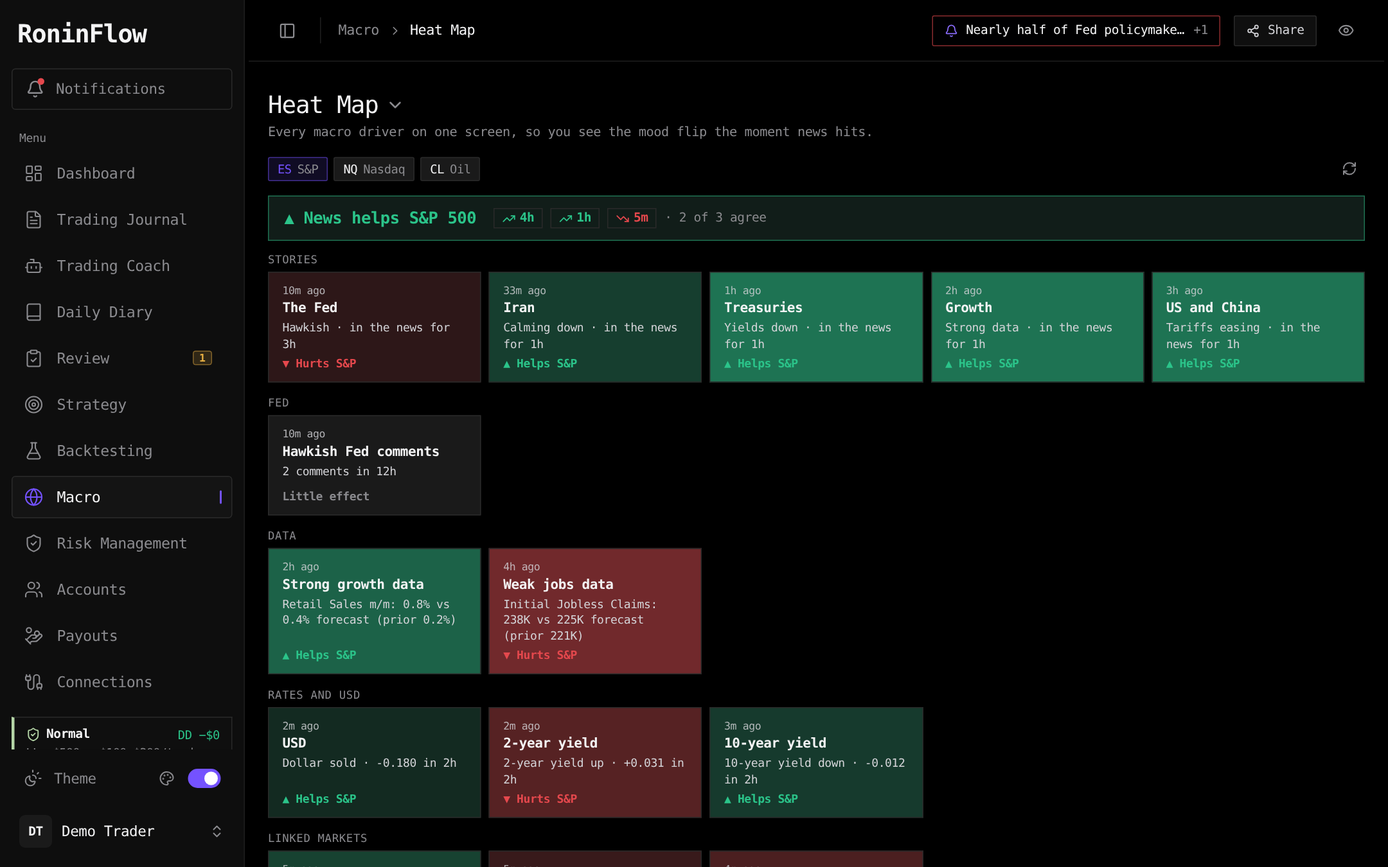
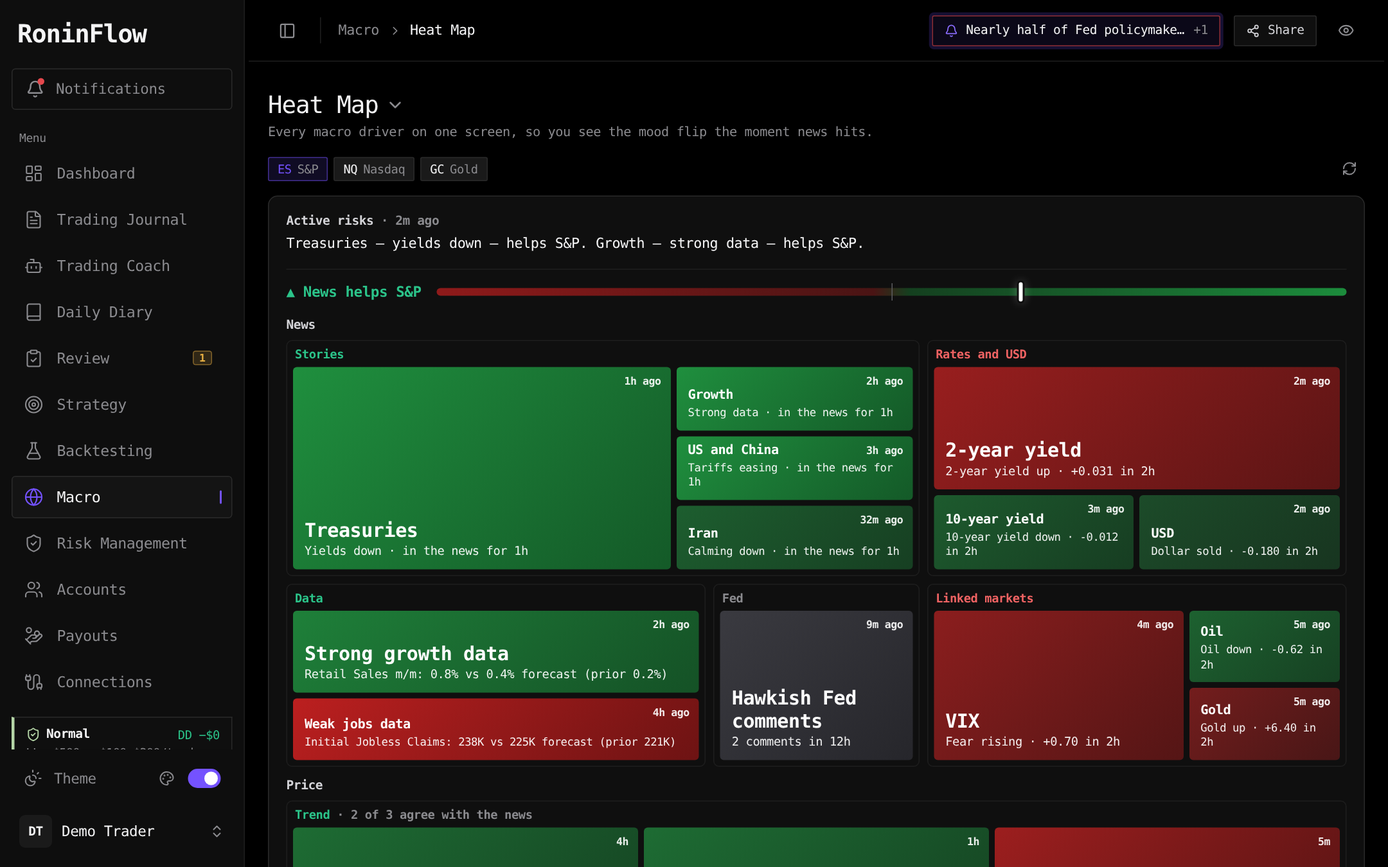
Heat map laid out as panels with an active-risks line and a verdict bar; dismissable news alerts; today's events marked high-impact scheduled releases
Claude-Session: https://claude.ai/code/session_01UwZjWnkvuFAiHZyDgpbxUS

diff --git a/src/views/NewsHeatmap.jsx b/src/views/NewsHeatmap.jsx
@@ -10,11 +10,48 @@ import { useMacro } from '../lib/macro';
 import { NEWS_MARKETS, DRIVERS } from '../lib/newsRules';
 import { Chain, ago, timeOf, sideOf } from '../components/NewsBits';
 
-const GROUPS = ['Stories', 'Fed', 'Data', 'Rates and USD', 'Linked markets'];
-const bg = (v) => {
-  const a = Math.min(0.55, 0.1 + Math.abs(v) * 0.45);
-  return v > 0.05 ? `color-mix(in srgb, var(--pos) ${Math.round(a * 100)}%, var(--card))` : v < -0.05 ? `color-mix(in srgb, var(--neg) ${Math.round(a * 100)}%, var(--card))` : 'var(--card-3)';
-};
+const ROW1 = ['Stories', 'Rates and USD'], ROW2 = ['Data', 'Fed', 'Linked markets'];
+const LAYOUT = { Stories: 'side', 'Rates and USD': 'top', Data: 'top', Fed: 'top', 'Linked markets': 'side' };
+const W = (t) => (t.group === 'Stories' ? 1.2 : t.group === 'Fed' ? 1.5 : t.group === 'Data' ? 1 : 0.6) * Math.max(0.3, Math.exp(-(Date.now() - t.t) / 864e5));
+const strength = (t) => Math.abs(t.v) * W(t);
+const tone = (v) => (v > 0.05 ? 'up' : v < -0.05 ? 'down' : 'flat');
+/** Spans on a 5-column board for the panels that have tiles (a row's panels share its width). */
+function spans(row, has, sizes) {
+  const list = row.filter((g) => has[g]);
+  if (list.length === 1) return { [list[0]]: 5 };
+  if (list.length === 2) { const [a, b] = list; const big = (has[a] >= has[b] ? a : b); return { [a]: big === a ? 3 : 2, [b]: big === b ? 3 : 2 }; }
+  return Object.fromEntries(list.map((g) => [g, sizes[g]]));
+}
+
+function Tile({ t, big, market, onOpen }) {
+  const m = NEWS_MARKETS[market];
+  return (
+    <button className={`hm-tile ${tone(t.v)} ${big ? 'big' : ''}`} style={{ '--a': `${Math.round(35 + Math.min(1, Math.abs(t.v)) * 65)}%` }} onClick={() => onOpen(t)} title={`${t.v > 0.05 ? 'Helps' : t.v < -0.05 ? 'Hurts' : 'Little effect on'} ${m?.short}`}>
+      <span className="hm-age">{ago(t.t)}</span>
+      <span className="hm-txt">
+        <b>{t.title}</b>
+        {t.sub && <small>{t.sub}</small>}
+      </span>
+    </button>
+  );
+}
+
+function Panel({ group, tiles, span, market, onOpen, layout }) {
+  const list = [...tiles].sort((a, b) => strength(b) - strength(a));
+  const net = list.reduce((a, t) => a + t.v * W(t), 0);
+  const [first, ...rest] = list;
+  const more = rest.slice(0, layout === 'side' ? 3 : 3);
+  const lay = span === 1 ? 'top' : layout;
+  return (
+    <div className={`hm-panel ${lay}`} style={{ gridColumn: `span ${span}` }}>
+      <div className={`hm-ph ${tone(net)}`}>{group}</div>
+      <div className="hm-pbody">
+        <Tile t={first} big market={market} onOpen={onOpen} />
+        {more.length > 0 && <div className="hm-rest">{more.map((t, i) => <Tile key={i} t={t} market={market} onOpen={onOpen} />)}</div>}
+      </div>
+    </div>
+  );
+}
 
 export default function NewsHeatmap() {
   const { state, setSetting } = useStore();
@@ -44,36 +81,41 @@ export default function NewsHeatmap() {
       {error && <div className="ec-warn">{error}</div>}
       {loading && !data ? <div className="ec-empty">Loading…</div> : !data ? null : (
         <>
-          <div className={`hm-banner ${verdict}`}>
-            <span className="hm-v">{verdict === 'helps' ? '▲' : verdict === 'hurts' ? '▼' : '•'} News {verdict === 'mixed' ? 'is mixed for' : verdict} {m?.label}</span>
-            {data.trend && (
-              <span className="hm-trend">
-                {data.trend.slice().reverse().map((t) => <span key={t.tf} className={`hm-tf ${t.dir > 0 ? 'pos' : t.dir < 0 ? 'neg' : ''}`}>{t.dir > 0 ? <TrendingUp size={14} /> : t.dir < 0 ? <TrendingDown size={14} /> : <Minus size={14} />} {t.tf}</span>)}
-                {verdict !== 'mixed' && <span className="muted">· {data.agree} of 3 agree{data.agree === 0 ? ' — price hasn’t joined the news' : data.agree === 3 ? ' — price is with the news' : ''}</span>}
-              </span>
-            )}
-          </div>
-          {!tiles.length && <div className="ec-empty">Nothing in the news for {m?.short} yet today.</div>}
-          <div className="hm-groups">
-            {GROUPS.map((g) => {
-              const list = tiles.filter((t) => t.group === g);
-              if (!list.length) return null;
+          <div className="hm-card">
+            <div className="hm-risks">
+              <div className="hm-risks-h">Active risks{tiles.length ? <span className="muted"> · {ago(Math.max(...tiles.map((t) => t.t)))}</span> : null}</div>
+              <div className="hm-risks-t">{tiles.length ? [...tiles].filter((t) => Math.abs(t.v) > 0.05).sort((x, y) => strength(y) - strength(x)).slice(0, 2).map((t) => { const what = (t.sub || '').split(' · ')[0]; return `${t.group === 'Stories' && what && !/^in the news/.test(what) ? `${t.title} — ${what.toLowerCase()} —` : t.group === 'Stories' || t.group === 'Fed' || t.group === 'Data' ? t.title : `${t.title}: ${what.toLowerCase()} —`} ${t.v > 0 ? 'helps' : 'hurts'} ${m.short}.`; }).join(' ') || `Nothing is pushing ${m.short} much right now.` : `Nothing in the news for ${m.short} yet today.`}</div>
+            </div>
+            <div className={`hm-verdict ${verdict}`}>
+              <span className="hm-v">{verdict === 'helps' ? '▲' : verdict === 'hurts' ? '▼' : '•'} News {verdict === 'mixed' ? 'is mixed for' : verdict} {m?.short}</span>
+              <span className="hm-bar" title={`Score ${bias.toFixed(2)} (−1 hurts … +1 helps)`}><i className="hm-mid" /><i className="hm-mark" style={{ left: `${((Math.max(-1, Math.min(1, bias)) + 1) / 2) * 100}%` }} /></span>
+            </div>
+            <div className="hm-sec">News</div>
+            {(() => {
+              const has = Object.fromEntries([...ROW1, ...ROW2].map((g) => [g, tiles.filter((t) => t.group === g).length]));
+              const sp = { ...spans(ROW1, has, { Stories: 3, 'Rates and USD': 2 }), ...spans(ROW2, has, { Data: 2, Fed: 1, 'Linked markets': 2 }) };
               return (
-                <div key={g} className="hm-group">
-                  <div className="hm-gh">{g}</div>
-                  <div className="hm-tiles">
-                    {list.map((t, i) => (
-                      <button key={i} className="hm-tile" style={{ background: bg(t.v) }} onClick={() => setOpen(t)} disabled={!t.ids?.length && !t.sub}>
-                        <span className="hm-age">{ago(t.t)}</span>
-                        <b>{t.title}</b>
-                        <small>{t.sub}</small>
-                        <span className={`hm-eff ${t.v > 0.05 ? 'pos' : t.v < -0.05 ? 'neg' : 'muted'}`}>{t.v > 0.05 ? `▲ Helps ${m.short}` : t.v < -0.05 ? `▼ Hurts ${m.short}` : 'Little effect'}</span>
-                      </button>
+                <div className="hm-board">
+                  {[...ROW1, ...ROW2].filter((g) => has[g]).map((g) => <Panel key={g} group={g} tiles={tiles.filter((t) => t.group === g)} span={sp[g]} market={market} onOpen={setOpen} layout={LAYOUT[g]} />)}
+                </div>
+              );
+            })()}
+            {data.trend && (
+              <>
+                <div className="hm-sec">Price</div>
+                <div className="hm-panel price">
+                  <div className={`hm-ph ${verdict === 'mixed' ? 'flat' : data.agree >= 2 ? (verdict === 'helps' ? 'up' : 'down') : 'flat'}`}>Trend <span className="muted">· {verdict === 'mixed' ? 'no clear news side' : `${data.agree} of 3 agree with the news${data.agree === 0 ? ' — price hasn’t joined it yet' : data.agree === 3 ? ' — price is with it' : ''}`}</span></div>
+                  <div className="hm-trendrow">
+                    {data.trend.slice().reverse().map((t) => (
+                      <div key={t.tf} className={`hm-tile ${t.dir > 0 ? 'up' : t.dir < 0 ? 'down' : 'flat'}`} style={{ '--a': '70%' }}>
+                        <span className="hm-age">{t.tf}</span>
+                        <span className="hm-txt"><b>{t.dir > 0 ? <TrendingUp size={16} /> : t.dir < 0 ? <TrendingDown size={16} /> : <Minus size={16} />} {t.dir > 0 ? 'Up' : t.dir < 0 ? 'Down' : 'Flat'}</b><small>{t.tf === '4h' ? 'A bigger move — it takes more to flip' : t.tf === '1h' ? 'The last few hours' : 'The last half hour'}</small></span>
+                      </div>
                     ))}
                   </div>
                 </div>
-              );
-            })}
+              </>
+            )}
           </div>
         </>
       )}

diff --git a/src/index.css b/src/index.css
@@ -2474,24 +2474,56 @@ button.nw-tone:hover { text-decoration: underline; }
 @media (max-width: 960px) { .nw-grid { grid-template-columns: 1fr; } .nw-line { grid-template-columns: 1fr; gap: 4px; } .nw-when { flex-direction: row; gap: 8px; } }
 
 /* ---------- Heat Map ---------- */
-.hm-banner { display: flex; flex-wrap: wrap; align-items: center; gap: 10px 18px; padding: 12px 16px; margin-bottom: 12px; border: 1px solid var(--border-2); background: var(--card); }
-.hm-banner.helps { border-color: color-mix(in srgb, var(--pos) 50%, transparent); background: color-mix(in srgb, var(--pos) 8%, var(--card)); }
-.hm-banner.hurts { border-color: color-mix(in srgb, var(--neg) 50%, transparent); background: color-mix(in srgb, var(--neg) 8%, var(--card)); }
-.hm-v { font-size: 17px; font-weight: 600; }
-.hm-banner.helps .hm-v { color: var(--pos); } .hm-banner.hurts .hm-v { color: var(--neg); }
-.hm-trend { display: inline-flex; flex-wrap: wrap; align-items: center; gap: 8px; font-size: 13px; }
-.hm-tf { display: inline-flex; align-items: center; gap: 4px; padding: 2px 8px; border: 1px solid var(--border-2); font-weight: 600; }
-.hm-groups { display: flex; flex-direction: column; gap: 14px; }
-.hm-gh { font-size: 11.5px; text-transform: uppercase; letter-spacing: .04em; color: var(--muted); margin-bottom: 6px; }
-.hm-tiles { display: grid; grid-template-columns: repeat(auto-fill, minmax(220px, 1fr)); gap: 8px; }
-.hm-tile { display: flex; flex-direction: column; gap: 4px; text-align: left; padding: 12px 14px; border: 1px solid var(--border-2); color: var(--fg); font: inherit; cursor: pointer; min-height: 104px; }
-.hm-tile:disabled { cursor: default; }
-.hm-tile b { font-size: 14px; font-weight: 600; }
-.hm-tile small { font-size: 12px; color: var(--fg-2); line-height: 1.4; }
-.hm-age { font-size: 11px; color: var(--fg-2); opacity: .8; }
-.hm-eff { margin-top: auto; font-size: 12px; font-weight: 600; }
+.hm-card { border: 1px solid var(--border-2); background: var(--card); padding: 18px 18px 20px; border-radius: 10px; }
+.hm-risks { padding-bottom: 14px; border-bottom: 1px solid var(--border); }
+.hm-risks-h { font-size: 13px; color: var(--fg-2); font-weight: 600; margin-bottom: 6px; }
+.hm-risks-t { font-size: 14.5px; line-height: 1.5; }
+.hm-verdict { display: flex; align-items: center; gap: 16px; padding: 14px 0 6px; }
+.hm-v { font-size: 15px; font-weight: 600; white-space: nowrap; color: var(--fg-2); }
+.hm-verdict.helps .hm-v { color: var(--pos); } .hm-verdict.hurts .hm-v { color: var(--neg); }
+.hm-bar { position: relative; display: block; flex: 1; min-width: 120px; height: 8px; border-radius: 4px; background: linear-gradient(90deg, #8f1a1a, #4a1414 48%, #14401f 52%, #1c8c3c); }
+.hm-mid { position: absolute; left: 50%; top: -5px; bottom: -5px; width: 1px; background: var(--muted-2); }
+.hm-mark { position: absolute; top: -6px; width: 4px; height: 20px; margin-left: -2px; border-radius: 2px; background: #fff; box-shadow: 0 0 0 2px var(--card), 0 0 10px rgba(255,255,255,.5); transition: left .4s; }
+.hm-sec { font-size: 13px; font-weight: 600; color: var(--fg-2); margin: 12px 0 8px; }
+.hm-board { display: grid; grid-template-columns: repeat(5, minmax(0, 1fr)); grid-auto-rows: minmax(190px, auto); gap: 8px; }
+.hm-panel { display: flex; flex-direction: column; gap: 6px; padding: 6px; border: 1px solid var(--border); border-radius: 6px; min-width: 0; }
+.hm-ph { font-size: 12.5px; font-weight: 600; padding: 0 2px; color: var(--muted); }
+.hm-ph.up { color: var(--pos); } .hm-ph.down { color: #f06363; }
+.hm-pbody { flex: 1; display: flex; gap: 6px; min-height: 0; }
+.hm-panel.top .hm-pbody { flex-direction: column; }
+.hm-rest { display: flex; gap: 6px; min-width: 0; }
+.hm-panel.side .hm-pbody > .hm-tile.big { flex: 1.5; }
+.hm-panel.side .hm-rest { flex: 1; flex-direction: column; }
+.hm-panel.top .hm-pbody > .hm-tile.big { flex: 1.4; }
+.hm-panel.top .hm-rest { flex: 1; }
+.hm-rest .hm-tile { flex: 1; }
+.hm-tile { position: relative; display: flex; flex-direction: column; justify-content: flex-end; text-align: left; padding: 10px 12px; min-height: 64px; min-width: 0; border: 0; border-radius: 4px; color: #fff; font: inherit; cursor: pointer; overflow: hidden; }
+.hm-tile.down { background: linear-gradient(135deg, color-mix(in srgb, #d42020 var(--a), var(--card-3)), color-mix(in srgb, #7a1212 var(--a), var(--card-3))); }
+.hm-tile.up { background: linear-gradient(135deg, color-mix(in srgb, #1f8f3e var(--a), var(--card-3)), color-mix(in srgb, #145a28 var(--a), var(--card-3))); }
+.hm-tile.flat { background: linear-gradient(135deg, #3a3a40, #26262b); }
+.hm-tile:hover { filter: brightness(1.12); }
+.hm-age { position: absolute; top: 8px; right: 10px; font-size: 11px; font-weight: 600; opacity: .9; }
+.hm-txt { display: flex; flex-direction: column; gap: 2px; min-width: 0; }
+.hm-tile b { font-size: 13.5px; font-weight: 600; line-height: 1.25; display: flex; align-items: center; gap: 6px; }
+.hm-tile small { font-size: 11.5px; opacity: .92; line-height: 1.35; overflow: hidden; display: -webkit-box; -webkit-line-clamp: 2; -webkit-box-orient: vertical; }
+.hm-tile.big b { font-size: 20px; line-height: 1.2; }
+.hm-tile.big small { font-size: 12.5px; -webkit-line-clamp: 3; }
+.hm-panel.price { margin-top: 0; }
+.hm-trendrow { display: grid; grid-template-columns: repeat(3, minmax(0, 1fr)); gap: 6px; }
+.hm-trendrow .hm-tile { min-height: 84px; cursor: default; }
+.hm-trendrow .hm-tile:hover { filter: none; }
 .hm-detail { padding: 0 20px 18px; font-size: 13px; }
 .hm-line { padding: 8px 0; border-top: 1px solid var(--border); }
+@media (max-width: 900px) {
+  .hm-board { grid-template-columns: 1fr; grid-auto-rows: auto; }
+  .hm-panel { grid-column: auto !important; }
+  .hm-pbody, .hm-panel.side .hm-pbody { flex-direction: column; }
+  .hm-panel.side .hm-rest { flex-direction: row; flex-wrap: wrap; }
+  .hm-rest .hm-tile { flex: 1 1 40%; }
+  .hm-tile.big { min-height: 120px; }
+  .hm-verdict { flex-direction: column; align-items: stretch; gap: 10px; }
+  .hm-verdict .hm-bar { flex: none; width: 100%; }
+}
 
 /* ---------- News Agents ---------- */
 .na-grid { display: grid; grid-template-columns: repeat(2, minmax(0, 1fr)); gap: 12px; align-items: start; }
@@ -2508,3 +2540,14 @@ button.nw-tone:hover { text-decoration: underline; }
 .na-alert.new { background: color-mix(in srgb, var(--primary) 7%, transparent); }
 .na-alert-why { line-height: 1.45; }
 @media (max-width: 960px) { .na-grid { grid-template-columns: 1fr; } }
+.mp-alert { flex-direction: row; align-items: flex-start; gap: 4px; padding: 0; }
+.mp-alert-body { display: flex; flex-direction: column; gap: 3px; padding: 8px; flex: 1; min-width: 0; color: inherit; text-decoration: none; }
+.mp-x { flex-shrink: 0; width: 24px; height: 24px; margin: 6px 4px 0 0; display: grid; place-items: center; background: none; border: 0; color: var(--muted); cursor: pointer; border-radius: 2px; }
+.mp-x:hover { color: var(--fg); background: var(--card-3); }
+.mp-clear { background: none; border: 0; color: var(--muted); font: inherit; font-size: 12px; font-weight: 400; cursor: pointer; padding: 0; }
+.mp-clear:hover { color: var(--fg); }
+.mp-sec-ic { vertical-align: -2px; margin-right: 4px; color: var(--muted); }
+.mp-sub { font-weight: 400; font-size: 11px; color: var(--neg); text-transform: uppercase; letter-spacing: .04em; margin-left: 4px; }
+.mp-hi { flex-shrink: 0; font-size: 10px; font-weight: 700; text-transform: uppercase; letter-spacing: .04em; color: #fff; background: var(--neg); padding: 1px 5px; border-radius: 2px; line-height: 1.5; }
+.mp-ev .mp-t { width: 66px; white-space: nowrap; }
+.mp-row.past .mp-hi { background: var(--muted-2); }

diff --git a/src/components/MacroPill.jsx b/src/components/MacroPill.jsx
@@ -35,8 +35,12 @@ export default function MacroPill() {
     return () => { alive.current = false; clearInterval(id); };
   }, [loadNews, s.newsPill]);
   const readAlerts = () => { if (news.unread) fetch('/api/macro/news/alerts/read', { method: 'POST', headers: { 'Content-Type': 'application/json' }, body: '{}' }).then(() => setNews((n) => ({ alerts: n.alerts.map((a) => ({ ...a, read: true })), unread: 0 }))).catch(() => {}); };
-  const recentAlerts = news.alerts.filter((a) => a.t > now - 24 * 3600e3);
-  const latest = news.alerts.find((a) => !a.read);
+  const dismiss = (ids) => {
+    setNews((n) => ({ alerts: n.alerts.map((a) => (!ids || ids.includes(a.id) ? { ...a, dismissed: true, read: true } : a)), unread: ids ? n.alerts.filter((a) => !a.read && !ids.includes(a.id)).length : 0 }));
+    fetch('/api/macro/news/alerts/dismiss', { method: 'POST', headers: { 'Content-Type': 'application/json' }, body: JSON.stringify(ids ? { ids } : {}) }).catch(() => {});
+  };
+  const recentAlerts = news.alerts.filter((a) => a.t > now - 24 * 3600e3 && !a.dismissed);
+  const latest = news.alerts.find((a) => !a.read && !a.dismissed);
 
   const ccys = s.ecCcys || [];
   const { majors, holidays } = useMemo(() => {
@@ -61,7 +65,7 @@ export default function MacroPill() {
   const label = latest
     ? <><b className="truncate">{latest.title}</b>{news.unread > 1 && <span className="muted"> +{news.unread - 1}</span>}</>
     : next
-    ? <><b className="truncate">{next.ccy} {next.title}</b>{batch.length > 1 && <span className="muted"> +{batch.length - 1}</span>}<span className="mp-when">{next.ms <= now ? 'now' : soon ? countdown(next.ms - now) : fmtTime12(next.clock)}</span></>
+    ? <><span className="mp-hi" title="High-impact scheduled release">High</span><b className="truncate">{next.ccy} {next.title}</b>{batch.length > 1 && <span className="muted"> +{batch.length - 1}</span>}<span className="mp-when">{next.ms <= now ? 'now' : soon ? countdown(next.ms - now) : fmtTime12(next.clock)}</span></>
     : hol ? <b className="truncate">{hol.short} — {HOL[hol.holiday]}</b> : null;
 
   return (
@@ -76,27 +80,31 @@ export default function MacroPill() {
         <div className="mp-pop">
           {recentAlerts.length > 0 && (
             <>
-              <div className="mp-head"><span>News alerts</span><a href="#/macro/agents" className="muted" onClick={close} style={{ fontWeight: 400, fontSize: 12 }}>Agents</a></div>
+              <div className="mp-head"><span><Bell size={13} className="mp-sec-ic" /> News alerts</span><span className="row" style={{ gap: 14 }}><button className="mp-clear" onClick={() => dismiss(null)}>Clear all</button><a href="#/macro/agents" className="muted" onClick={close} style={{ fontWeight: 400, fontSize: 12 }}>Agents</a></span></div>
               {recentAlerts.slice(0, 6).map((a) => (
-                <a key={a.id} href="#/macro/news" onClick={close} className={`mp-alert ${a.read ? '' : 'new'} ${a.side}`}>
-                  <span className="row gap8"><span className="mp-t">{fmtTime12(wallClock(new Date(a.t)))}</span><b className="grow truncate">{a.agents.join(' · ')}</b>{a.market && <span className="muted">{NEWS_MARKETS[a.market]?.short}</span>}</span>
-                  <span className="mp-alert-t"><span className={`nw-tone ${a.side}`}>{a.why}</span> {a.title}</span>
-                  {a.move != null && a.market && <span className={`mp-alert-mv ${a.move > 0 ? 'pos' : a.move < 0 ? 'neg' : 'muted'}`}>{fmtMove(a.market, a.move)} in the 15 min after</span>}
-                </a>
+                <div key={a.id} className={`mp-alert ${a.read ? '' : 'new'} ${a.side}`}>
+                  <a href="#/macro/news" onClick={close} className="mp-alert-body">
+                    <span className="row gap8"><span className="mp-t">{fmtTime12(wallClock(new Date(a.t)))}</span><b className="grow truncate" title={a.agents.join(' · ')}>{a.agents.join(' · ')}</b>{a.market && <span className="muted">{NEWS_MARKETS[a.market]?.short}</span>}</span>
+                    <span className="mp-alert-t"><span className={`nw-tone ${a.side}`}>{a.why}</span> {a.title}</span>
+                    {a.move != null && a.market && <span className={`mp-alert-mv ${a.move > 0 ? 'pos' : a.move < 0 ? 'neg' : 'muted'}`}>{fmtMove(a.market, a.move)} in the 15 min after</span>}
+                  </a>
+                  <button className="mp-x" title="Dismiss" onClick={() => dismiss([a.id])}><X size={13} /></button>
+                </div>
               ))}
             </>
           )}
-          {!off && (majors.length > 0 || holidays.length > 0) && <div className="mp-head"><span>Today</span><button className="icon-btn" title="Hide today’s events until tomorrow" onClick={() => { close(); hide(); }}><X size={14} /></button></div>}
+          {!off && (majors.length > 0 || holidays.length > 0) && <div className="mp-head"><span><CalendarDays size={13} className="mp-sec-ic" /> Today’s scheduled events <span className="mp-sub">high impact</span></span><button className="icon-btn" title="Hide today’s events until tomorrow" onClick={() => { close(); hide(); }}><X size={14} /></button></div>}
           {!off && holidays.map((h) => (
             <div key={h.id} className="mp-row"><span className={`ec-hol ${h.holiday}`}>{HOL[h.holiday]}</span><span className="grow">{FLAGS[h.ccy]} {h.short}</span></div>
           ))}
           {!off && majors.map((e) => {
             const sp = surprise(e);
             return (
-              <div key={e.id} className={`mp-row ${e.ms < now - 2 * 60e3 ? 'past' : ''}`}>
+              <div key={e.id} className={`mp-row mp-ev ${e.ms < now - 2 * 60e3 ? 'past' : ''}`}>
                 <span className="mp-t">{fmtTime12(e.clock)}</span>
-                <span className="grow truncate" title={e.title}>{FLAGS[e.ccy]} {e.ccy} {e.title}</span>
-                <span className={`mp-v ${sp === 'beat' ? 'pos' : sp === 'miss' ? 'neg' : ''}`}>{e.actual || (e.ms > now ? countdown(e.ms - now).replace('in ', '') : e.forecast ? `f ${e.forecast}` : '')}</span>
+                <span className="mp-hi" title="High-impact scheduled release">High</span>
+                <span className="grow truncate" title={`${e.title} — high-impact scheduled release`}>{FLAGS[e.ccy]} {e.ccy} {e.title}</span>
+                <span className={`mp-v ${sp === 'beat' ? 'pos' : sp === 'miss' ? 'neg' : ''}`}>{e.actual ? e.actual : e.ms > now ? countdown(e.ms - now) : e.forecast ? `f ${e.forecast}` : 'released'}</span>
               </div>
             );
           })}

diff --git a/src/lib/newsDemo.js b/src/lib/newsDemo.js
@@ -33,6 +33,7 @@ const SIZE = { ES: 6, NQ: 30, YM: 50, RTY: 4, CL: 0.35, NG: 0.03, GC: 9, SI: 0.2
 const rnd = (seed) => { const x = Math.sin(seed * 9301 + 49297) * 233280; return x - Math.floor(x); };
 
 let readAll = 0; // alerts marked read in this browser session
+const dismissed = new Set();
 let extra = [];
 let custom = [{ id: 'c-demo', label: 'Your agent', text: "I'm long gold. Tell me if anything goes against it.", on: true }];
 
@@ -80,7 +81,7 @@ function alerts() {
   const list = items();
   const pick = (id, agents, why, market) => { const x = list.find((y) => y.id === id); return { id: `a${id}`, t: x.t + 4000, at: x.t, itemId: id, title: x.title, src: x.src, agents, why, market, side: x.impacts[market] > 0 ? 'helps' : x.impacts[market] < 0 ? 'hurts' : 'note', price: PRICE[market], move: x.move[market]?.chg ?? undefined }; };
   const out = [pick('d0', ['Fed', 'Your agent', 'Gold'], 'Hawkish Fed', 'GC'), pick('d6', ['Geopolitics', 'Gold'], 'Calming down', 'GC'), pick('d9', ['Trump', 'Geopolitics'], 'Trump · Getting worse', 'ES'), pick('d12', ['Data', 'S&P 500'], 'Strong data', 'ES')];
-  return out.map((a, i) => ({ ...a, read: a.t <= readAll || i > 1 }));
+  return out.map((a, i) => ({ ...a, read: a.t <= readAll || i > 1, dismissed: dismissed.has(a.id) }));
 }
 function heatmap(market) {
   const list = items(), now = Date.now();
@@ -154,6 +155,7 @@ export function demoNews(url, body) {
   }
   if (r === '/alerts') { const a = alerts(); return { alerts: a.slice().reverse().sort((x, y) => y.t - x.t), unread: a.filter((x) => !x.read).length }; }
   if (r === '/alerts/read') { readAll = Date.now(); return { ok: true, unread: 0 }; }
+  if (r === '/alerts/dismiss') { if (Array.isArray(body?.ids)) body.ids.forEach((id) => dismissed.add(id)); else alerts().forEach((x) => dismissed.add(x.id)); readAll = Date.now(); return { ok: true, unread: 0 }; }
   if (r === '/config') { if (Array.isArray(body?.extraMarkets)) extra = body.extraMarkets; return config(); }
   if (r === '/explain') { const x = items().find((y) => y.id === body?.id); return { chain: x?.driver ? chainFor(x.driver, body.market) : [], text: null }; }
   return {};

diff --git a/news.js b/news.js
@@ -10,7 +10,7 @@
 //   GET  /api/macro/news/similar?id=&market=    → { items }   earlier lines with the same story and tone, and what the market did next
 //   GET  /api/macro/news/heatmap?market=ES      → { tiles, bias, trend }
 //   GET  /api/macro/news/agents                 · POST /api/macro/news/agents { action, agent }
-//   GET  /api/macro/news/alerts                 · POST /api/macro/news/alerts/read { ids? }
+//   GET  /api/macro/news/alerts                 · POST /api/macro/news/alerts/read { ids? } · POST …/alerts/dismiss { ids? }
 //   POST /api/macro/news/explain { id, market } → { chain, text? }
 //
 // Kept in data/news/: one file of headlines per New York day (90 days), alerts, and settings.
@@ -635,6 +635,13 @@ export function createNewsHandler(dataDir, { log = () => {}, vault = null, fetch
         return send(res, 200, { agents: agentsList(), markets: followed(), ai: !!cfg.ai?.on && !!aiCfg() });
       }
       if (req.method === 'GET' && route === '/alerts') return send(res, 200, { alerts: alerts.slice(-100).reverse(), unread: alerts.filter((a) => !a.read).length });
+      if (req.method === 'POST' && route === '/alerts/dismiss') { // gone from the top-bar pill (still listed on the Agents page)
+        const b = await body(req);
+        const ids = Array.isArray(b.ids) ? new Set(b.ids) : null;
+        for (const a of alerts) if (!ids || ids.has(a.id)) { a.dismissed = true; a.read = true; }
+        saveAlerts();
+        return send(res, 200, { ok: true, unread: alerts.filter((a) => !a.read).length });
+      }
       if (req.method === 'POST' && route === '/alerts/read') {
         const b = await body(req);
         const ids = Array.isArray(b.ids) ? new Set(b.ids) : null;
